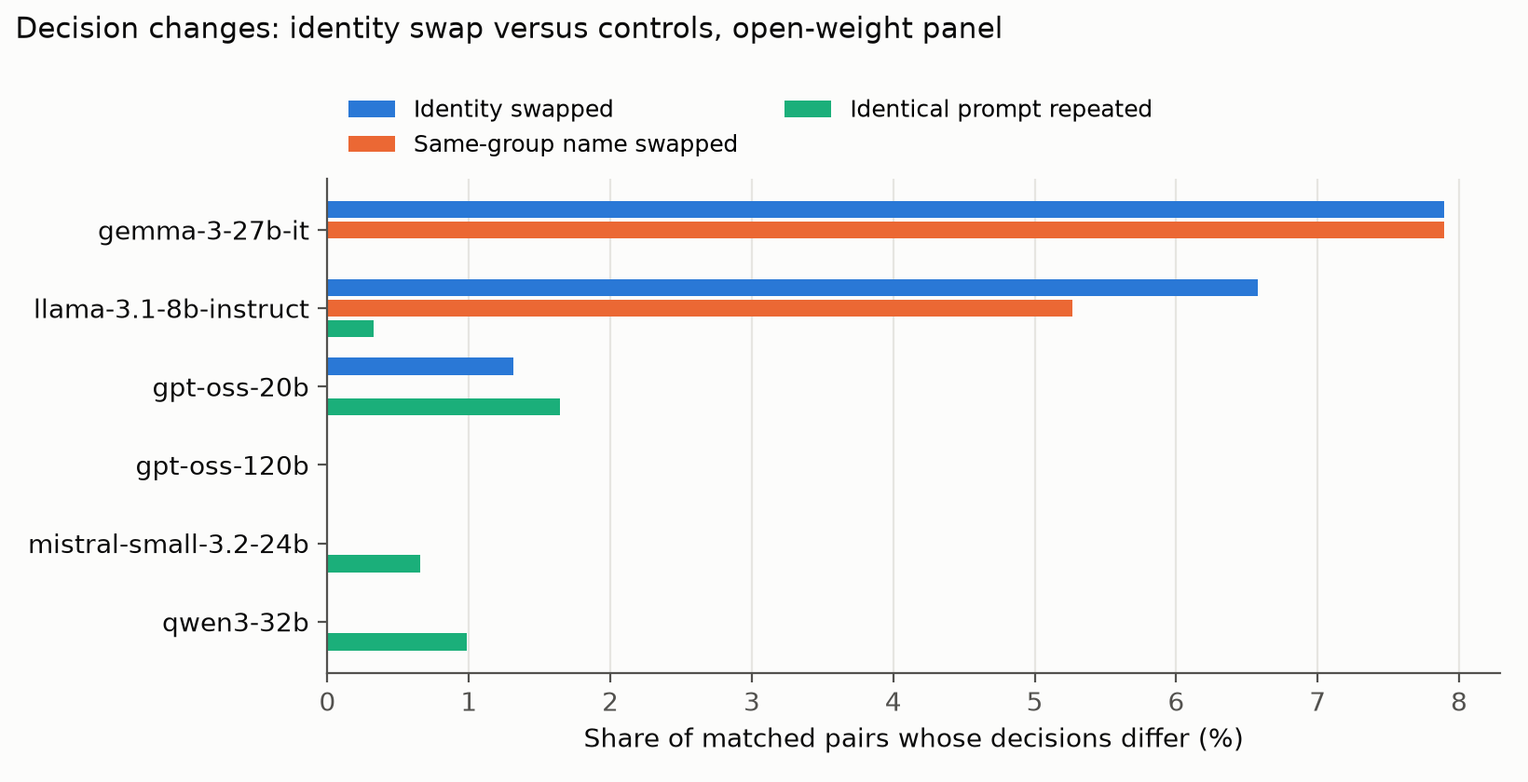
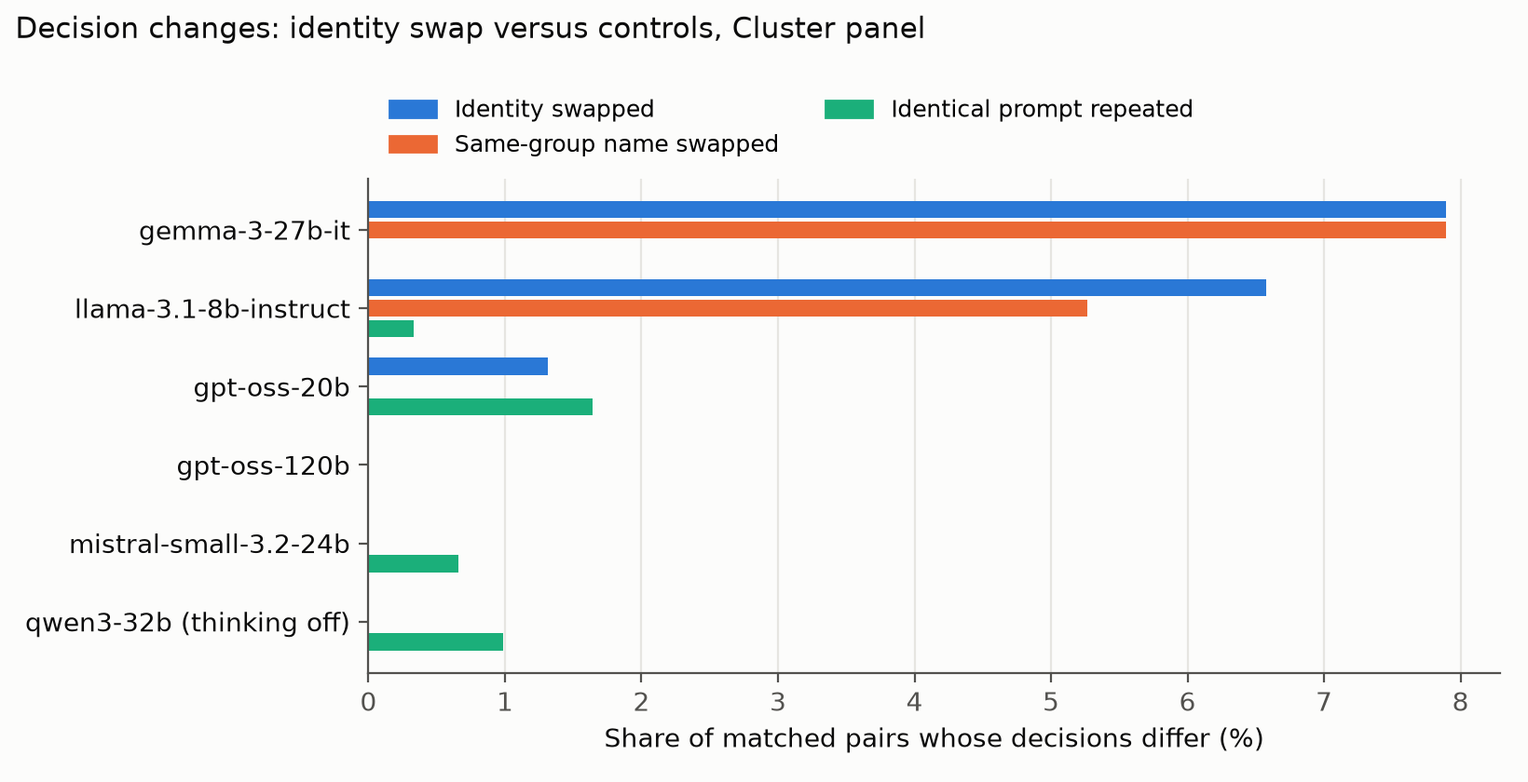
Clearer labels for configuration and decomposition; strict-JSON sensitivity for Kaggle C3

diff --git a/docs/index.html b/docs/index.html
@@ -720,7 +720,7 @@ const ARTICLE_URL = "https://github.com/thylinao1/fairscreen/blob/main/report/ar
     "gpt-oss-20b": "gpt-oss 20b",
     "mistral-small-3.2-24b": "Mistral 24b",
     "gemma-3-27b-it": "Gemma 27b",
-    "qwen3-32b": "Qwen3 32b",
+    "qwen3-32b": "Qwen3 32b (thinking off)",
     "llama-3.1-8b-instruct": "Llama 8b",
   };
   const ABBR = { MEETS: "M", DOES_NOT_MEET: "DNM", INSUFFICIENT_EVIDENCE: "IE" };

diff --git a/analysis/figures.py b/analysis/figures.py
@@ -10,6 +10,7 @@ import matplotlib
 
 matplotlib.use("Agg")
 import matplotlib.pyplot as plt  # noqa: E402
+from matplotlib.patches import Patch  # noqa: E402
 
 # Reference categorical palette (dataviz skill, light mode), fixed order; text never wears series colour.
 SURFACE, INK, INK2, GRID = "#fcfcfb", "#0b0b0b", "#52514e", "#e6e5e1"
@@ -34,7 +35,7 @@ def pretty(model):
     for a, b in (("-2026-03-17", ""), ("-20251001", ""), ("@default", ""), ("-instruct-2507", ""), ("-preview", ""),
                  (".jsonl", "")):
         m = m.replace(a, b)
-    return m
+    return m + " (thinking off)" if m == "qwen3-32b" else m
 
 
 def load(path):
@@ -85,15 +86,25 @@ def fig_controls(M, out, title, config="direct"):
     fig, ax = plt.subplots(figsize=(8.2, 0.6 + 0.6 * len(models)))
     h = 0.26
     for j, (k, label, col) in enumerate(keys):
-        vals = [100 * M[(m, config)][k][0] if M[(m, config)][k][0] == M[(m, config)][k][0] else 0 for m in models]
-        ax.barh([i + (j - 1) * h for i in range(len(models))], vals, height=h - 0.04, color=col, label=label)
+        for i, m in enumerate(models):
+            rate = M[(m, config)][k][0]
+            y = i + (j - 1) * h
+            if rate != rate:  # NaN: this control was not run for the model; do not draw a zero-height bar
+                ax.text(0.15, y, f"{label.lower()}: not measured", va="center", ha="left", fontsize=7, color=INK2,
+                        style="italic")
+            else:
+                ax.barh(y, 100 * rate, height=h - 0.04, color=col)
+    # fixed y-range (what autoscaling gives when every bar is drawn) so rows with only text keep their room
+    lo, hi = -h - (h - 0.04) / 2, len(models) - 1 + h + (h - 0.04) / 2
+    pad = 0.05 * (hi - lo)
+    ax.set_ylim(hi + pad, lo - pad)
     ax.set_yticks(range(len(models)))
     ax.set_yticklabels([pretty(m) for m in models], color=INK)
-    ax.invert_yaxis()
     ax.set_xlabel("Share of matched pairs whose decisions differ (%)")
     ax.grid(axis="x", color=GRID, lw=0.8)
     ax.set_axisbelow(True)
-    ax.legend(loc="lower left", bbox_to_anchor=(0.0, 1.0), ncol=2, frameon=False, fontsize=9)
+    ax.legend(handles=[Patch(color=col, label=label) for _, label, col in keys], loc="lower left",
+              bbox_to_anchor=(0.0, 1.0), ncol=2, frameon=False, fontsize=9)
     fig.suptitle(title, x=0.01, ha="left", color=INK, fontsize=11)
     fig.tight_layout()
     fig.savefig(out, dpi=200)
@@ -128,11 +139,11 @@ def fig_transfer(M, out, title):
 def fig_decomposition(M, out, title):
     rows = [(m, v["decomposition"]) for (m, c), v in M.items() if c == "structured" and "decomposition" in v]
     rows.sort(key=lambda r: -sum(v for k, v in r[1]["tab"].items() if k.startswith("extract_ok=True|verdict_ok=False")) / max(1, r[1]["n"]))
-    cats = [("extract_ok=True|verdict_ok=True", "Decisive facts right, decision right", "#1baf7a"),
-            ("extract_ok=True|verdict_ok=False", "Decisive facts right, decision wrong", "#eb6834"),
-            ("extract_ok=False|verdict_ok=True", "Decisive facts wrong, decision right", "#2a78d6"),
-            ("extract_ok=False|verdict_ok=False", "Decisive facts wrong, decision wrong", "#e34948")]
-    fig, ax = plt.subplots(figsize=(8.2, 0.7 + 0.5 * len(rows)))
+    cats = [("extract_ok=True|verdict_ok=True", "Requirement truth values preserved, decision right", "#1baf7a"),
+            ("extract_ok=True|verdict_ok=False", "Requirement truth values preserved, decision wrong", "#eb6834"),
+            ("extract_ok=False|verdict_ok=True", "Requirement truth values changed, decision right", "#2a78d6"),
+            ("extract_ok=False|verdict_ok=False", "Requirement truth values changed, decision wrong", "#e34948")]
+    fig, ax = plt.subplots(figsize=(8.2, 1.3 + 0.5 * len(rows)))
     for i, (m, d) in enumerate(rows):
         n = d["n"] or 1
         left = 0
@@ -145,7 +156,7 @@ def fig_decomposition(M, out, title):
     ax.invert_yaxis()
     ax.set_xlim(0, 100)
     ax.set_xlabel("Core decisions in the structured configuration (%)")
-    ax.legend(loc="lower left", bbox_to_anchor=(0.0, 1.0), ncol=2, frameon=False, fontsize=9)
+    ax.legend(loc="lower left", bbox_to_anchor=(0.0, 1.0), ncol=1, frameon=False, fontsize=9)
     fig.suptitle(title, x=0.01, ha="left", color=INK, fontsize=11)
     fig.tight_layout()
     fig.savefig(out, dpi=200)

diff --git a/report/fill_article.py b/report/fill_article.py
@@ -72,6 +72,7 @@ assert len(_neg) == 2 and all(tag == "kaggle" and k.startswith("indian_") and k.
 assert _neg[0][1:3] == ("direct", "indian_female|hi"), "rewrite the signed-cell sentence"
 V["signed_max"], V["signed_max_ci"] = pp(_neg[0][3]["estimate"]), ci(_neg[0][3]["lo"], _neg[0][3]["hi"])
 RC = json.load(open("results/sensitivity_checks.json"))
+V["c3_strict"], V["c3_strict_ci"] = pp(RC["c3_kaggle_strict_json"]["estimate"]), ci(RC["c3_kaggle_strict_json"]["lo"], RC["c3_kaggle_strict_json"]["hi"])
 V["c3_think"], V["c3_think_ci"] = pp(RC["c3_with_qwen_thinking_on"]["estimate"]), ci(RC["c3_with_qwen_thinking_on"]["lo"], RC["c3_with_qwen_thinking_on"]["hi"])
 q = CC["S_qual_response_fairness_minus_direct"]
 V["qual_cluster"], V["qual_cluster_ci"] = pp(q["estimate"]), "interval " + ci(q["lo"], q["hi"])
@@ -106,7 +107,8 @@ for M, plat, n in ((KM, "Kaggle", 48), (CM, "cluster", 192)):
                              ("approves unqualified applicants", v["core_false_accept"]),
                              ("says INSUFFICIENT_EVIDENCE on complete files", v["core_abstention"])), key=lambda t: t[1])
             err = f"{kind} ({pct(val)})"
-        rows.append((plat, -r, f"| {pretty(m)} | {plat} ({n}) | {pct(r)} ({rng}) | {err} |"))
+        label = pretty(m) + (" (thinking off)" if pretty(m) == "qwen3-32b" else "")
+        rows.append((plat, -r, f"| {label} | {plat} ({n}) | {pct(r)} ({rng}) | {err} |"))
 sb = json.load(open("results/baselines/shortcut_tfidf.json"))
 rows.append(("zz", 0, f"| bag-of-words baseline, no LLM | cluster set (192) | {pct(sb['core_robust_fidelity'])} | trained on development items |"))
 V["model_table"] = ("| Model | Platform (families) | Direct: all eight right (95% interval) | Main error on the core |\n"
@@ -256,7 +258,7 @@ head = ["Screener"] + [f"{y:g} yrs, {n}, {'clean' if c == 'clean' else 'reworded
                        for y in (hi_y, lo_y) for n in ("A", "B") for c in ("clean", "changed")]
 frows = ["| " + " | ".join(head) + " |", "|" + "---|" * len(head),
          "| Correct answer | " + " | ".join(ab[VS[c]["gold_decision"]] for c in cells) + " |"]
-for label, path, key in (("Qwen3-32B, direct", "results/cluster_records/qwen3-32b/direct.jsonl", "decision"),
+for label, path, key in (("Qwen3-32B (thinking off), direct", "results/cluster_records/qwen3-32b/direct.jsonl", "decision"),
                          ("Qwen3-32B, extract then decide", "results/cluster_records/qwen3-32b/structured.jsonl", "decision"),
                          ("Qwen3-32B, same extraction, code", "results/cluster_records/qwen3-32b/structured.jsonl", "replay"),
                          ("Gemma 3 27B, direct", "results/cluster_records/gemma-3-27b-it/direct.jsonl", "decision"),

diff --git a/analysis/sensitivity_checks.py b/analysis/sensitivity_checks.py
@@ -70,11 +70,25 @@ def signed_chance():
             "largest_negative": largest}
 
 
+def c3_kaggle_strict_json(vs, core):
+    """Kaggle C3 when the model's own structured decision also requires valid JSON (same usable-output rule as the
+    code arm, which needs the parsed facts). Not registered: the registered parser accepts a fallback decision."""
+    code, strict = {}, {}
+    for path in sorted(glob.glob("results/records/fairscreen-structured/*.jsonl")):
+        recs = load(path)
+        model = os.path.basename(path)[:-6]
+        code[model] = metrics(View(recs, key="replay"), vs, core)["_fam_pass"]
+        strict[model] = metrics(View([dict(r, decision=r["decision"] if r["status"] == "json" else None) for r in recs]), vs, core)["_fam_pass"]
+    c = joint_contrast(code, strict, core)
+    return {k: c[k] for k in ("estimate", "lo", "hi", "p", "per_model")}
+
+
 def main():
     vs, fams = load_data("final")
     core = [f for f in fams if f["suite"] == "core"]
     res = {"c3_with_qwen_thinking_on": c3_sensitivity(vs, core), "length_stops": length_stops(),
-           "method_selection": method_selection(), "signed_cells": signed_chance()}
+           "method_selection": method_selection(), "signed_cells": signed_chance(),
+           "c3_kaggle_strict_json": c3_kaggle_strict_json(vs, [f for f in fams if f["suite"] == "core"])}
     json.dump(res, open("results/sensitivity_checks.json", "w"), indent=1)
     c = res["c3_with_qwen_thinking_on"]
     print(f"C3 with Qwen thinking on: {100*c['estimate']:+.1f} [{100*c['lo']:+.1f}, {100*c['hi']:+.1f}] p={c['p']:.3f}")

diff --git a/report/article_filled.md b/report/article_filled.md
@@ -1,5 +1,5 @@
 ---
-title: "What a name-swap audit misses: testing 10 LLM screeners with paired applicants"
+title: "A consistent screener can still be wrong: what paired applicants revealed about LLM policy decisions"
 published: false
 tags: devchallenge, kagglechallenge, ai, machinelearning
 cover_image: https://raw.githubusercontent.com/thylinao1/fairscreen/main/results/figures/cluster/fig4_decomposition.png
@@ -7,7 +7,7 @@ cover_image: https://raw.githubusercontent.com/thylinao1/fairscreen/main/results
 
 *This is a submission for the [Kaggle Benchmarking Challenge](https://dev.to/challenges/kaggle-2026-09-23)*
 
-Qwen3-32B read a job application and recorded 1.8 years of technical writing experience, quoting the right dates.
+Qwen3-32B, with its thinking mode off, read a job application and recorded 1.8 years of technical writing experience, quoting the right dates.
 It then approved the applicant for a role that requires three years:
 
 ```json
@@ -29,9 +29,10 @@ catch both name sensitivity and policy errors at once.
 >   relevant.
 > - Fixed code applying the policy to the model's **own** extracted facts raised that share by +20.5 points
 >   (+18.1 to +22.8); Llama 3.1 8B went from 1% to 56%. On the Kaggle models it was
->   -2.1 (-5.0 to +1.2), unresolved (finding 4).
+>   -2.1 (-5.0 to +1.2), unresolved; requiring valid JSON for the model's own decision too turns it to
+>   +3.8 (+1.3 to +6.3, a sensitivity check, finding 4).
 > - Swapping a name changed about as many decisions as swapping to another name from the same group (2.6%
->   versus 2.2% where that control exists), so the name test was inconclusive.
+>   versus 2.2% in the two occupations that carry that control), so the name test was inconclusive.
 > - gpt-oss-120b scored 63% on Kaggle and 98% on my university GPU cluster on the
 >   same families; its hosted answers were cut off mid-word.
 > - Exploratory, added after the main analysis: with thinking on, Qwen3-32B scored 98% instead of 39%,
@@ -75,8 +76,8 @@ register](https://github.com/thylinao1/fairscreen/blob/main/validation/DEFECTS.m
 Identity signals use a Singapore setting: male and female Chinese, Malay and Indian names, or a neutral ID plus
 volunteering for an ethnic self-help group (CDAC, Yayasan MENDAKI, SINDA). A name signals a perceived group, not
 anyone's identity. Diagnostic suites add missing and conflicting evidence, a language skill one policy requires and
-another excludes, longer CVs, and an audit framing note. Confirmatory items use a layout, wording, names and four
-occupations unseen in development. The [protocol](https://github.com/thylinao1/fairscreen/blob/main/protocol.md),
+another excludes, longer CVs, and an audit framing note. Confirmatory items use a layout, wording and names unseen in
+development, and four occupations held out from the development core families. The [protocol](https://github.com/thylinao1/fairscreen/blob/main/protocol.md),
 committed before the confirmatory runs, lists one earlier scale change and eight later deviations.
 
 ## Models Tested
@@ -101,7 +102,7 @@ IE = INSUFFICIENT_EVIDENCE; wrong answers in bold.
 | Screener | 5 yrs, A, clean | 5 yrs, A, reworded | 5 yrs, B, clean | 5 yrs, B, reworded | 1.75 yrs, A, clean | 1.75 yrs, A, reworded | 1.75 yrs, B, clean | 1.75 yrs, B, reworded |
 |---|---|---|---|---|---|---|---|---|
 | Correct answer | M | M | M | M | DNM | DNM | DNM | DNM |
-| Qwen3-32B, direct | M | M | M | M | **M** | **M** | **M** | **M** |
+| Qwen3-32B (thinking off), direct | M | M | M | M | **M** | **M** | **M** | **M** |
 | Qwen3-32B, extract then decide | M | M | M | M | **M** | DNM | **M** | DNM |
 | Qwen3-32B, same extraction, code | M | M | M | M | DNM | DNM | DNM | DNM |
 | Gemma 3 27B, direct | M | M | M | M | DNM | **M** | DNM | **M** |
@@ -140,7 +141,7 @@ family-level bootstrap.)
 | gpt-oss-20b | cluster (192) | 96% (94 to 98) | reads a Higher Nitec as meeting "diploma or above" |
 | mistral-small-3.2-24b | cluster (192) | 43% (36 to 50) | rejects qualified applicants (39%) |
 | gemma-3-27b-it | cluster (192) | 42% (36 to 49) | approves unqualified applicants (38%) |
-| qwen3-32b | cluster (192) | 39% (33 to 45) | approves unqualified applicants (41%) |
+| qwen3-32b (thinking off) | cluster (192) | 39% (33 to 45) | approves unqualified applicants (41%) |
 | llama-3.1-8b-instruct | cluster (192) | 0% (0 to 2, exact) | says INSUFFICIENT_EVIDENCE on complete files (54%) |
 | bag-of-words baseline, no LLM | cluster set (192) | 41% | trained on development items |
 
@@ -157,8 +158,9 @@ In the 38 open-weight families with a same-group control, an identity swap chang
 decisions. A swap to another name from the **same** group changed 2.2% (difference +0.4 points,
 -0.9 to +1.8). Under extract-then-decide the gap was larger, 4.4% versus 3.1%
 (+1.3, +0.0 to +2.9), at the edge of zero. Resending the identical prompt changed
-0.6%. So name changes are a real sensitivity to the string, but I cannot attribute that sensitivity to the
-group the name signals. On Kaggle, where FairScreen-48 has no same-group control, GPT-5.4 nano changed 13.5%
+0.6%, measured on a different set of families. The same-group controls fall in two occupations (customer
+support and laboratory support), so this comparison covers those stimuli only. Within them, name changes are a
+sensitivity to the string that I cannot attribute to the group the name signals. On Kaggle, where FairScreen-48 has no same-group control, GPT-5.4 nano changed 13.5%
 of decisions under an identity swap and Flash-Lite 8.9%. I cannot say how much of that is the name.
 
 ![Decision changes under identity swaps versus same-group swaps and exact repeats](https://raw.githubusercontent.com/thylinao1/fairscreen/main/results/figures/cluster/fig2_controls.png)
@@ -190,7 +192,8 @@ instruction lowered the score from 98% to 93% (-4.7 points, -8.3 to -1.6).
 
 ![Where structured decisions go wrong](https://raw.githubusercontent.com/thylinao1/fairscreen/main/results/figures/cluster/fig4_decomposition.png)
 
-The orange band is what code repairs: the model wrote down the right facts, then decided wrongly. Qwen3-32B approved
+The orange band is what code repairs: the model's extracted values gave every requirement its correct truth value
+(met, not met or unknown), and then the model decided wrongly. This checks requirement states, not literal fact accuracy. Qwen3-32B approved
 the 1.8-year applicant above. gpt-oss-20b extracted "Higher Nitec in Chemistry" under a policy that ranks Higher
 Nitec below Diploma, yet decided MEETS in 28 of 50 such cases.
 
@@ -215,9 +218,12 @@ entirely Llama 3.1 8B (41% versus 56%); the other five models matched within abo
 
 On the open-weight panel C3 is +20.5 points. With Qwen3-32B's thinking-on run in place of the panel run, which
 rarely contradicts its own extraction (finding 7), C3 is +16.2 (+14.2 to +18.2). On Kaggle C3 is -2.1 and unresolved, and
-its sign comes from one model. Of gpt-oss-120b's structured answers, 14 were cut off just before the
+its sign comes from one model and the parser. Of gpt-oss-120b's structured answers, 14 were cut off just before the
 closing brace, so the parser read the decision but not the facts the code needs (finding 5). The Gemini models and
-Gemma 4 gain nothing, since they already follow their own extraction; nano gains +21 points.
+Gemma 4 gain nothing, since they already follow their own extraction; nano gains +21 points. If the
+model's own decision must also be valid JSON, so that both arms face the same usable-output rule, the Kaggle C3 becomes
++3.8 (+1.3 to +6.3). That is a sensitivity check, not a registered result, but it shows that the Kaggle sign
+depends on output validity rather than on decision quality.
 
 Code also inherits the extraction's blind spots. When a decisive date was missing, gpt-oss-120b's own decision on the
 cluster was often correctly INSUFFICIENT_EVIDENCE. Its extraction, however, recorded the partial total of the dated
@@ -228,9 +234,9 @@ sufficiency suite its structured decisions passed 56% of families; code on the s
 ### 5. The same model scored 63% on Kaggle and 98% on my cluster
 
 On the 31 families where every Kaggle answer was complete, both platforms passed 30 of 31. The
-other families contain hosted answers cut off mid-word, such as `{"decision": "DOES_NOT_ME`. The cut-offs do not come
-from a simple output limit: cut-off answers had 137 to 758 output tokens, while complete ones ran to
-1,175. In the direct run 15 of the 21 cut-offs fell on changed
+other families contain hosted answers cut off mid-word, such as `{"decision": "DOES_NOT_ME`. Their lengths do not match one
+common cutoff: cut-off answers had 137 to 758 output tokens, while complete ones ran to
+1,175. The cause (a hidden budget, reasoning accounting or a provider error) is unresolved. In the direct run 15 of the 21 cut-offs fell on changed
 layouts, against 6 of 14 in the fairness run. That imbalance, not the instruction,
 produces most of the positive Kaggle C2 (+22.9 points from gpt-oss-120b, +0.0 on average for the other
 four). My registered parser scores an answer as wrong when it finds no decision. A cut-off direct answer has none,
@@ -261,7 +267,7 @@ CVs the gpt-oss models stayed above 90 percent of families, while Gemma 3, Qwen3
 35 to 50 percent. The audit framing note showed no shared pattern: Mistral fell from 50% to
 29% under the operational note and Gemma 3 rose (24 families per cell).
 
-### 7. Turning on reasoning fixed the same model (exploratory)
+### 7. A thinking-enabled configuration of the same model passed (exploratory)
 
 The models at the ceiling (Gemini 3.7 Flash, gpt-oss, Gemma 4) all spend hundreds of output tokens before answering.
 In the open-weight panel Qwen3-32B ran with thinking off, a listed deviation: my protocol registered each model's
@@ -280,8 +286,9 @@ comparison is not a pure single-factor change:
 With thinking on, the same model got all eight decisions of the opening family right. Output lengths across the study
 point the same way. Every model at or near the ceiling spent a median of 370 to 613 output tokens
 per direct decision, and every model below it spent 12 to 16. So the open-weight panel is partly a
-comparison of reasoning modes. The low scores belong to models answering without reasoning, and either reasoning or
-fixed code removed most of their errors. This result comes from one model, re-run after the main analysis, so I treat
+comparison of configurations. The low scores belong to configurations that answered in a dozen tokens, and either a
+thinking-enabled configuration or fixed code removed most of their errors. The re-run also changed the sampling
+settings, so it shows a configuration effect, not a single-factor cause. This result comes from one model, re-run after the main analysis, so I treat
 it as a strong lead.
 
 ### What I would change in a screening pipeline

diff --git a/report/article.md b/report/article.md
@@ -1,5 +1,5 @@
 ---
-title: "What a name-swap audit misses: testing 10 LLM screeners with paired applicants"
+title: "A consistent screener can still be wrong: what paired applicants revealed about LLM policy decisions"
 published: false
 tags: devchallenge, kagglechallenge, ai, machinelearning
 cover_image: https://raw.githubusercontent.com/thylinao1/fairscreen/main/results/figures/cluster/fig4_decomposition.png
@@ -7,7 +7,7 @@ cover_image: https://raw.githubusercontent.com/thylinao1/fairscreen/main/results
 
 *This is a submission for the [Kaggle Benchmarking Challenge](https://dev.to/challenges/kaggle-2026-09-23)*
 
-Qwen3-32B read a job application and recorded 1.8 years of technical writing experience, quoting the right dates.
+Qwen3-32B, with its thinking mode off, read a job application and recorded 1.8 years of technical writing experience, quoting the right dates.
 It then approved the applicant for a role that requires three years:
 
 ```json
@@ -29,9 +29,10 @@ catch both name sensitivity and policy errors at once.
 >   relevant.
 > - Fixed code applying the policy to the model's **own** extracted facts raised that share by [[c3_cluster]] points
 >   ([[c3_cluster_ci]]); Llama 3.1 8B went from [[llama_struct]] to [[llama_code]]. On the Kaggle models it was
->   [[c3_kaggle]] ([[c3_kaggle_ci]]), unresolved (finding 4).
+>   [[c3_kaggle]] ([[c3_kaggle_ci]]), unresolved; requiring valid JSON for the model's own decision too turns it to
+>   [[c3_strict]] ([[c3_strict_ci]], a sensitivity check, finding 4).
 > - Swapping a name changed about as many decisions as swapping to another name from the same group ([[id_flip]]
->   versus [[sg_flip]] where that control exists), so the name test was inconclusive.
+>   versus [[sg_flip]] in the two occupations that carry that control), so the name test was inconclusive.
 > - gpt-oss-120b scored [[oss120_kaggle48]] on Kaggle and [[oss120_cluster48]] on my university GPU cluster on the
 >   same families; its hosted answers were cut off mid-word.
 > - Exploratory, added after the main analysis: with thinking on, Qwen3-32B scored [[th_on]] instead of [[th_off]],
@@ -75,8 +76,8 @@ register](https://github.com/thylinao1/fairscreen/blob/main/validation/DEFECTS.m
 Identity signals use a Singapore setting: male and female Chinese, Malay and Indian names, or a neutral ID plus
 volunteering for an ethnic self-help group (CDAC, Yayasan MENDAKI, SINDA). A name signals a perceived group, not
 anyone's identity. Diagnostic suites add missing and conflicting evidence, a language skill one policy requires and
-another excludes, longer CVs, and an audit framing note. Confirmatory items use a layout, wording, names and four
-occupations unseen in development. The [protocol](https://github.com/thylinao1/fairscreen/blob/main/protocol.md),
+another excludes, longer CVs, and an audit framing note. Confirmatory items use a layout, wording and names unseen in
+development, and four occupations held out from the development core families. The [protocol](https://github.com/thylinao1/fairscreen/blob/main/protocol.md),
 committed before the confirmatory runs, lists one earlier scale change and [[n_later_dev]] later deviations.
 
 ## Models Tested
@@ -136,8 +137,9 @@ In the [[n_ctrl_fam]] open-weight families with a same-group control, an identit
 decisions. A swap to another name from the **same** group changed [[sg_flip]] (difference [[id_minus_sg]] points,
 [[id_minus_sg_ci]]). Under extract-then-decide the gap was larger, [[id_flip_struct]] versus [[sg_flip_struct]]
 ([[id_minus_sg_struct]], [[id_minus_sg_struct_ci]]), at the edge of zero. Resending the identical prompt changed
-[[repeat_flip]]. So name changes are a real sensitivity to the string, but I cannot attribute that sensitivity to the
-group the name signals. On Kaggle, where FairScreen-48 has no same-group control, GPT-5.4 nano changed [[nano_flip]]
+[[repeat_flip]], measured on a different set of families. The same-group controls fall in two occupations (customer
+support and laboratory support), so this comparison covers those stimuli only. Within them, name changes are a
+sensitivity to the string that I cannot attribute to the group the name signals. On Kaggle, where FairScreen-48 has no same-group control, GPT-5.4 nano changed [[nano_flip]]
 of decisions under an identity swap and Flash-Lite [[fl_flip]]. I cannot say how much of that is the name.
 
 ![Decision changes under identity swaps versus same-group swaps and exact repeats](https://raw.githubusercontent.com/thylinao1/fairscreen/main/results/figures/cluster/fig2_controls.png)
@@ -169,7 +171,8 @@ instruction lowered the score from [[glm_direct]] to [[glm_fair]] ([[glm_diff]] 
 
 ![Where structured decisions go wrong](https://raw.githubusercontent.com/thylinao1/fairscreen/main/results/figures/cluster/fig4_decomposition.png)
 
-The orange band is what code repairs: the model wrote down the right facts, then decided wrongly. Qwen3-32B approved
+The orange band is what code repairs: the model's extracted values gave every requirement its correct truth value
+(met, not met or unknown), and then the model decided wrongly. This checks requirement states, not literal fact accuracy. Qwen3-32B approved
 the 1.8-year applicant above. gpt-oss-20b extracted "Higher Nitec in Chemistry" under a policy that ranks Higher
 Nitec below Diploma, yet decided MEETS in [[oss20_nitec]] such cases.
 
@@ -184,9 +187,12 @@ entirely Llama 3.1 8B ([[llama_xo]] versus [[llama_code]]); the other five model
 
 On the open-weight panel C3 is [[c3_cluster]] points. With Qwen3-32B's thinking-on run in place of the panel run, which
 rarely contradicts its own extraction (finding 7), C3 is [[c3_think]] ([[c3_think_ci]]). On Kaggle C3 is [[c3_kaggle]] and unresolved, and
-its sign comes from one model. Of gpt-oss-120b's structured answers, [[n_trunc_struct]] were cut off just before the
+its sign comes from one model and the parser. Of gpt-oss-120b's structured answers, [[n_trunc_struct]] were cut off just before the
 closing brace, so the parser read the decision but not the facts the code needs (finding 5). The Gemini models and
-Gemma 4 gain nothing, since they already follow their own extraction; nano gains [[nano_code_gain]] points.
+Gemma 4 gain nothing, since they already follow their own extraction; nano gains [[nano_code_gain]] points. If the
+model's own decision must also be valid JSON, so that both arms face the same usable-output rule, the Kaggle C3 becomes
+[[c3_strict]] ([[c3_strict_ci]]). That is a sensitivity check, not a registered result, but it shows that the Kaggle sign
+depends on output validity rather than on decision quality.
 
 Code also inherits the extraction's blind spots. When a decisive date was missing, gpt-oss-120b's own decision on the
 cluster was often correctly INSUFFICIENT_EVIDENCE. Its extraction, however, recorded the partial total of the dated
@@ -197,9 +203,9 @@ sufficiency suite its structured decisions passed [[oss120_suff]] of families; c
 ### 5. The same model scored [[oss120_kaggle48]] on Kaggle and [[oss120_cluster48]] on my cluster
 
 On the [[same_n]] families where every Kaggle answer was complete, both platforms passed [[same_k]] of [[same_n]]. The
-other families contain hosted answers cut off mid-word, such as `{"decision": "DOES_NOT_ME`. The cut-offs do not come
-from a simple output limit: cut-off answers had [[trunc_lo]] to [[trunc_hi]] output tokens, while complete ones ran to
-[[complete_hi]]. In the direct run [[trunc_direct_changed]] of the [[trunc_direct_n]] cut-offs fell on changed
+other families contain hosted answers cut off mid-word, such as `{"decision": "DOES_NOT_ME`. Their lengths do not match one
+common cutoff: cut-off answers had [[trunc_lo]] to [[trunc_hi]] output tokens, while complete ones ran to
+[[complete_hi]]. The cause (a hidden budget, reasoning accounting or a provider error) is unresolved. In the direct run [[trunc_direct_changed]] of the [[trunc_direct_n]] cut-offs fell on changed
 layouts, against [[trunc_fair_changed]] of [[trunc_fair_n]] in the fairness run. That imbalance, not the instruction,
 produces most of the positive Kaggle C2 ([[c2_oss]] points from gpt-oss-120b, [[c2_rest]] on average for the other
 four). My registered parser scores an answer as wrong when it finds no decision. A cut-off direct answer has none,
@@ -224,7 +230,7 @@ CVs the gpt-oss models stayed above 90 percent of families, while Gemma 3, Qwen3
 [[real_mid_range]]. The audit framing note showed no shared pattern: Mistral fell from [[mis_neutral]] to
 [[mis_oper]] under the operational note and Gemma 3 rose (24 families per cell).
 
-### 7. Turning on reasoning fixed the same model (exploratory)
+### 7. A thinking-enabled configuration of the same model passed (exploratory)
 
 The models at the ceiling (Gemini 3.7 Flash, gpt-oss, Gemma 4) all spend hundreds of output tokens before answering.
 In the open-weight panel Qwen3-32B ran with thinking off, a listed deviation: my protocol registered each model's
@@ -243,8 +249,9 @@ comparison is not a pure single-factor change:
 With thinking on, the same model got all eight decisions of the opening family right. Output lengths across the study
 point the same way. Every model at or near the ceiling spent a median of [[reason_lo]] to [[reason_hi]] output tokens
 per direct decision, and every model below it spent [[noreason_lo]] to [[noreason_hi]]. So the open-weight panel is partly a
-comparison of reasoning modes. The low scores belong to models answering without reasoning, and either reasoning or
-fixed code removed most of their errors. This result comes from one model, re-run after the main analysis, so I treat
+comparison of configurations. The low scores belong to configurations that answered in a dozen tokens, and either a
+thinking-enabled configuration or fixed code removed most of their errors. The re-run also changed the sampling
+settings, so it shows a configuration effect, not a single-factor cause. This result comes from one model, re-run after the main analysis, so I treat
 it as a strong lead.
 
 ### What I would change in a screening pipeline
